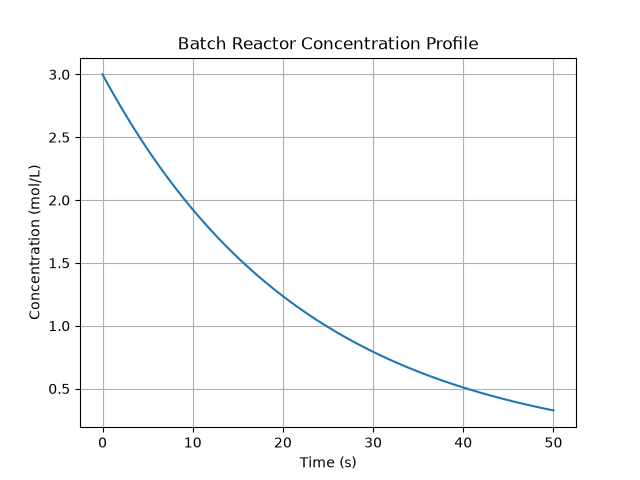
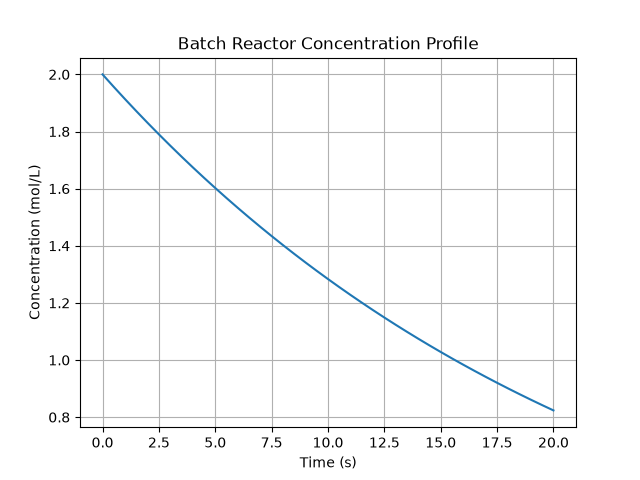
Add temperature sweep analysis

diff --git a/src/main.py b/src/main.py
@@ -1,3 +1,5 @@
+from temperature_sweep import temperature_sweep
+from reactors import batch_reactor, cstr_steady_state
 from plot_batch import plot_batch
 from reactors import batch_reactor
 from kinetics import calculate_rate_constant
@@ -10,12 +12,16 @@ def main():
     print("Author: Connie Yu")
     print("=" * 40)
 
+    print("\nSelect Reactor")
+    print("1. Batch Reactor")
+    print("2. CSTR")
+    print("3. Temperature Sweep")
+
+    choice = input("Choice: ")
+
     temperature = float(input("Enter temperature (K): "))
     concentration = float(input("Enter concentration (mol/L): "))
     reaction_order = int(input("Reaction order (0/1/2): "))
-
-    simulation_time = float(input("Simulation time (s): "))
-    dt = float(input("Time step (s): "))
 
     A = 1e7        # 1/s
     Ea = 80000     # J/mol
@@ -28,27 +34,62 @@ def main():
     temperature
     )
 
-    time_history = []
-    concentration_history = []
+    if choice == "1":
+        simulation_time = float(input("Simulation time (s): "))
+        dt = float(input("Time step (s): "))
 
-    time = 0.0
-    current_concentration = concentration
+        time_history, concentration_history = batch_reactor(
+            concentration,
+            k,
+            reaction_order,
+            simulation_time,
+            dt,
+        )
 
-    time_history, concentration_history = batch_reactor(
-    concentration,
-    k,
-    reaction_order,
-    simulation_time,
-    dt,
-    )
+        print(f"\nReactor Type = Batch Reactor")
+        print(f"Temperature = {temperature:.1f} K")
+        print(f"Simulation Time = {simulation_time:.1f} s")
+        print(
+            f"Final Concentration = "
+            f"{concentration_history[-1]:.4f} mol/L"
+        )
+        print(f"Reaction Order = {reaction_order}")
+        print(f"Rate Constant = {k:.6e} 1/s")
 
-    plot_batch(time_history, concentration_history)
+        plot_batch(
+            time_history,
+            concentration_history,
+        )
 
-    print(f"\nTemperature = {temperature:.1f} K")
-    print(f"Simulation Time = {simulation_time:.1f} s")
-    print(f"Final Concentration = {concentration_history[-1]:.2f} mol/L")
-    print(f"Reaction Order = {reaction_order}")
-    print(f"Rate Constant = {k:.6e} 1/s")
+    elif choice == "2":
+        residence_time = float(input("Residence time (s): "))
+
+        outlet_concentration = cstr_steady_state(
+            concentration,
+            k,
+            reaction_order,
+            residence_time,
+        )
+    elif choice == "3":
+        temperature_sweep()
+
+        conversion = (
+            concentration - outlet_concentration
+        ) / concentration
+
+        print(f"\nReactor Type = CSTR")
+        print(f"Temperature = {temperature:.1f} K")
+        print(f"Residence Time = {residence_time:.1f} s")
+        print(
+            f"Outlet Concentration = "
+            f"{outlet_concentration:.4f} mol/L"
+        )
+        print(f"Conversion = {conversion:.2%}")
+        print(f"Reaction Order = {reaction_order}")
+        print(f"Rate Constant = {k:.6e} 1/s")
+
+    else:
+        print("Invalid reactor selection.")
 
 if __name__ == "__main__":
     main()

diff --git a/src/temperature_sweep.py b/src/temperature_sweep.py
@@ -1,0 +1,44 @@
+import matplotlib.pyplot as plt
+
+from kinetics import calculate_rate_constant
+from reactors import cstr_steady_state
+def temperature_sweep():
+
+    concentration = float(input("Feed concentration (mol/L): "))
+    reaction_order = int(input("Reaction order (0/1/2): "))
+    residence_time = float(input("Residence time (s): "))
+
+    A = 1e7
+    Ea = 80000
+    R = 8.314
+
+    temperatures = []
+    conversions = []
+
+    for temperature in range(300, 801, 10):
+        k = calculate_rate_constant(A, Ea, R, temperature)
+
+        outlet_concentration = cstr_steady_state(
+            concentration,
+            k,
+            reaction_order,
+            residence_time,
+        )
+
+        conversion = (
+            concentration - outlet_concentration
+            ) / concentration
+
+        temperatures.append(temperature)
+        conversions.append(conversion)
+
+    plt.plot(temperatures, conversions)
+    plt.xlabel("Temperature (K)")
+    plt.ylabel("Conversion")
+    plt.title("Temperature Sweep")
+
+    plt.grid(True)
+
+    plt.savefig("figures/temperature_sweep_plot.png")
+    
+    plt.show()

diff --git a/src/reactors.py b/src/reactors.py
@@ -36,3 +36,33 @@ def batch_reactor(
         time += dt
 
     return time_history, concentration_history
+
+def cstr_steady_state(
+    inlet_concentration,
+    k,
+    reaction_order,
+    residence_time,
+):
+    if reaction_order == 0:
+        outlet_concentration = inlet_concentration - k * residence_time
+
+    elif reaction_order == 1:
+        outlet_concentration = inlet_concentration / (
+            1 + k * residence_time
+        )
+
+    elif reaction_order == 2:
+        a = k * residence_time
+        b = 1.0
+        c = -inlet_concentration
+
+        discriminant = b**2 - 4 * a * c
+
+        outlet_concentration = (
+            -b + discriminant**0.5
+        ) / (2 * a)
+
+    else:
+        raise ValueError("Invalid reaction order.")
+
+    return max(0.0, outlet_concentration)

diff --git a/READMe.md b/READMe.md
@@ -69,6 +69,10 @@ The Arrhenius plot shows the exponential dependence of the reaction rate constan
 
 The batch reactor profile demonstrates the decrease in reactant concentration over time for a first-order reaction.
 
+### Temperature Sweep
+
+![Temperature Sweep](figures/temperature_sweep.png)
+
 ## Installation
 
 Clone the repository:
